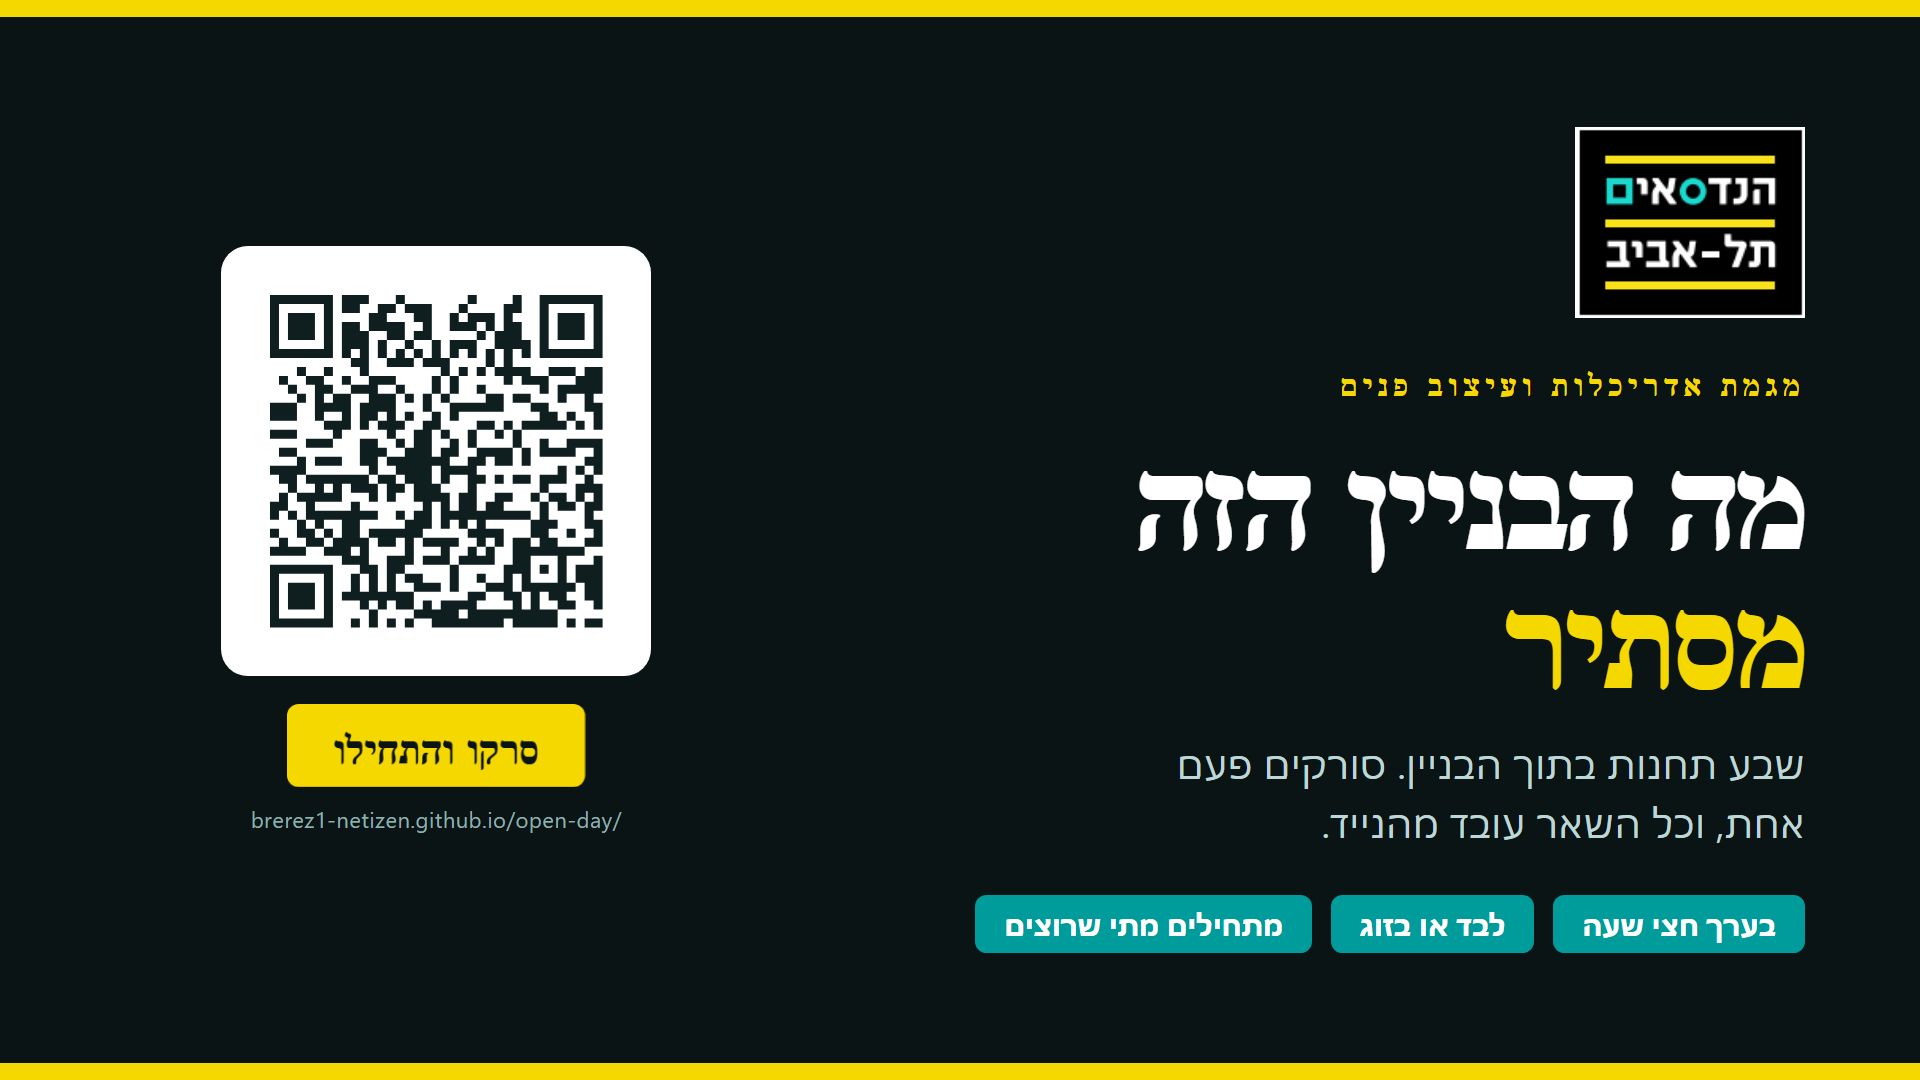
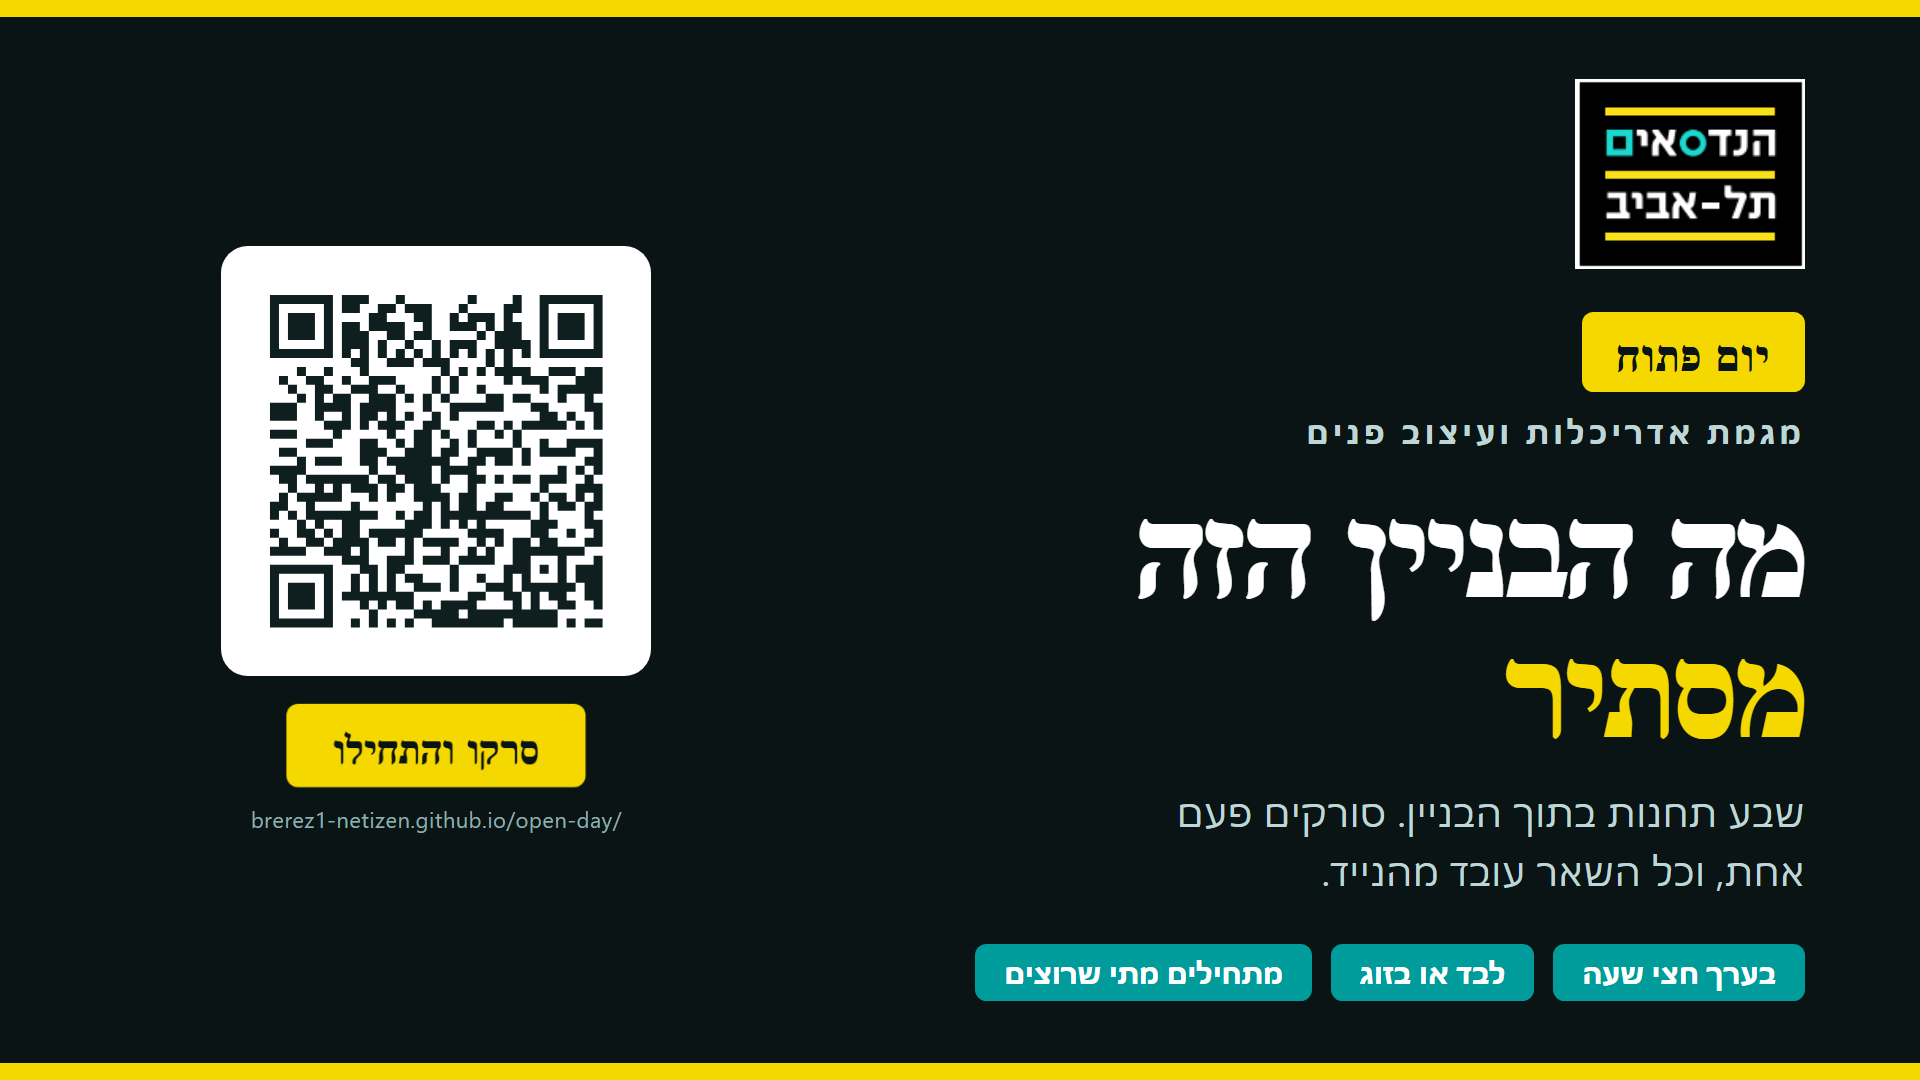
"יום פתוח" במסכי הלובי, והתראת מייל עשירה יותר על כל נרשם

Changed region(s): [[0.5, 0.3972, 0.9375, 0.9472], [0.6875, 0.0611, 0.9375, 0.3667]]

diff --git a/tv.html b/tv.html
@@ -21,7 +21,10 @@
 
   .left { display:flex; flex-direction:column; }
   .logo { width:15vw; max-width:230px; margin-bottom:4vh; }
-  .kick { color:var(--yellow); font-weight:800; letter-spacing:0.16em; font-size:1.7vw; }
+  .badge { display:inline-block; align-self:flex-start; background:var(--yellow); color:var(--ink);
+    font-weight:800; font-size:2.4vw; letter-spacing:0.02em; padding:0.8vh 1.8vw;
+    border-radius:0.6vw; margin-bottom:1.8vh; }
+  .kick { color:#BFD6D6; font-weight:700; letter-spacing:0.14em; font-size:1.6vw; }
   h1 { font-size:7.4vw; line-height:0.98; font-weight:800; letter-spacing:-0.035em; margin:1.6vh 0 0; }
   h1 em { font-style:normal; color:var(--yellow); }
   .lede { font-size:2.05vw; line-height:1.5; margin-top:3.2vh; color:#BFD6D6; max-width:34vw; }
@@ -45,6 +48,7 @@
     .screen { grid-template-columns:1fr; grid-template-rows:1fr auto; text-align:center; padding:8vh 7vw; }
     .left { align-items:center; }
     .logo { width:30vw; }
+    .badge { align-self:center; font-size:5vw; padding:1vh 5vw; border-radius:1.4vw; }
     .kick { font-size:3.2vw; }
     h1 { font-size:13vw; }
     .lede { font-size:3.8vw; max-width:80vw; }
@@ -58,6 +62,7 @@
   <div class="screen">
     <div class="left">
[1 lines of base64/hex data omitted]
+      <div class="badge">יום פתוח</div>
       <div class="kick">מגמת אדריכלות ועיצוב פנים</div>
       <h1>מה הבניין הזה<br><em>מסתיר</em></h1>
       <p class="lede">שבע תחנות בתוך הבניין. סורקים פעם אחת, וכל השאר עובד מהנייד.</p>
